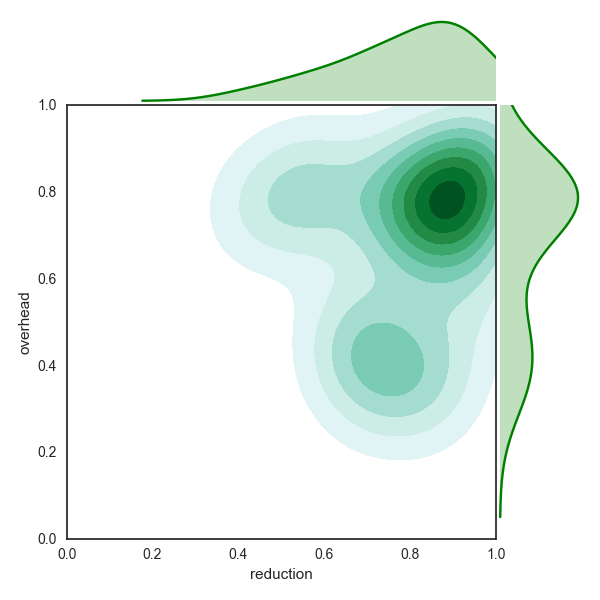
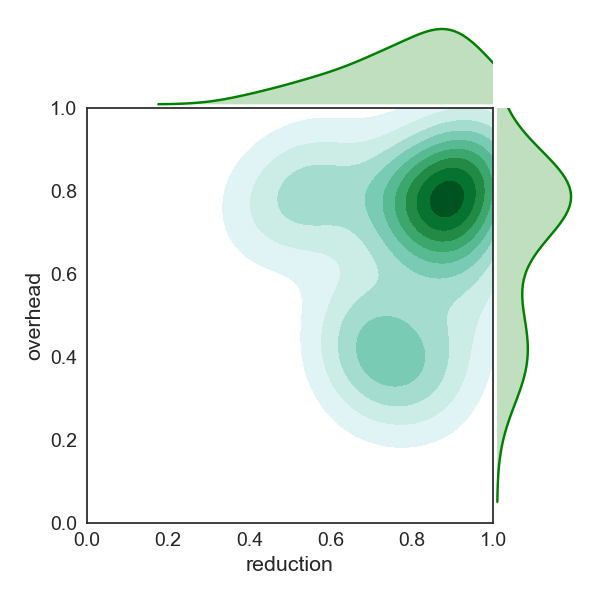
more benchmarks, more better

diff --git a/experiments/performance/generate_sp.py b/experiments/performance/generate_sp.py
@@ -64,7 +64,7 @@ if __name__ == '__main__':
     data = get_frame(raw_data, args.topdown, args.kbo)
 
     # now we worry about graphing
-    sns.set(style="white")
+    sns.set(style="white", font_scale=1.4)
     # sns.set_color_codes("pastel")
     g = sns.JointGrid(x="reduction", y="overhead", data=data, xlim=(0,1), ylim=(0,1), space=0)
     g = g.plot_joint(sns.kdeplot, shade=True, shade_lowest=False,cmap="BuGn")

diff --git a/experiments/num_rules/generate_data.py b/experiments/num_rules/generate_data.py
@@ -55,7 +55,7 @@ def get_frame(size):
 
 # now get and save all the data
 data = []
-for size in range(args.maxsize):
+for size in range(1, args.maxsize, 5):
     data.append(get_frame(size))
 
 # write the frames out to file
